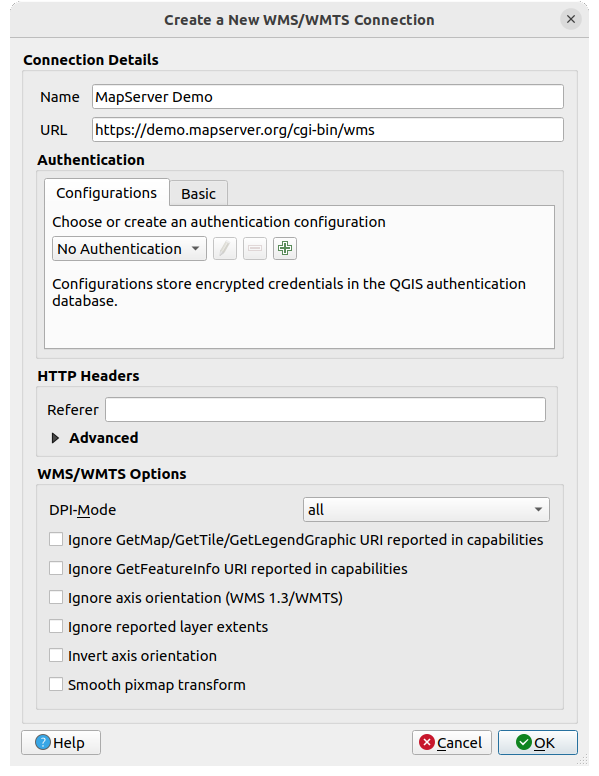
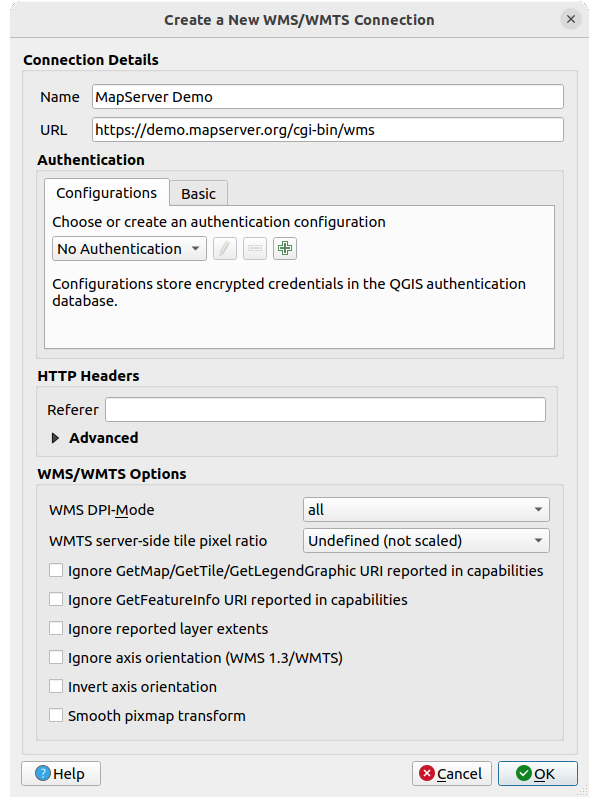
Add DPI based options to "Add WMS/WMTS" dialog

diff --git a/docs/user_manual/working_with_ogc/ogc_client_support.rst b/docs/user_manual/working_with_ogc/ogc_client_support.rst
@@ -212,19 +212,23 @@ You then need to create connections to the server you are targeting:
       See :ref:`authentication_index` for more details.
 
    * HTTP :guilabel:`Referer`
-   * :guilabel:`DPI-Mode`: Available options are **all**, **off**, **QGIS**,
+   * :guilabel:`WMS DPI-Mode`: Available options are **all**, **off**, **QGIS**,
      **UMN** and **GeoServer**
+   * :guilabel:`WMTS server-side tile pixel ratio`:  When rendering WMTS layers,
+     allows to scale up or down the tiles based on the device screen DPI.
+     Available options are :guilabel:`Undefined (not scaled)`,
+     :guilabel:`Standard (96 DPI)` and :guilabel:`High (192 DPI)`.
    * |unchecked| :guilabel:`Ignore GetMap/GetTile/GetLegendGraphic URI reported in capabilities`:
      if checked, use given URI from the :guilabel:`URL` field above.
    * |unchecked| :guilabel:`Ignore GetFeatureInfo URI reported in capabilities`:
      if checked, use given URI from the :guilabel:`URL` field above.
-   * |unchecked| :guilabel:`Ignore axis orientation (WMS 1.3/WMTS)`
    * |unchecked| :guilabel:`Ignore reported layer extents`: because the extent
      reported by raster layers may be smaller than the actual area which can
      be rendered (notably for WMS servers with symbology which takes more space
      than the data extent), check this option to avoid cropping raster layers
      to their reported extents, resulting in truncated symbols on the borders
      of these layers.
+   * |unchecked| :guilabel:`Ignore axis orientation (WMS 1.3/WMTS)`
    * |unchecked| :guilabel:`Invert axis orientation`
    * |unchecked| :guilabel:`Smooth pixmap transformation`
 #. Press :guilabel:`OK`
